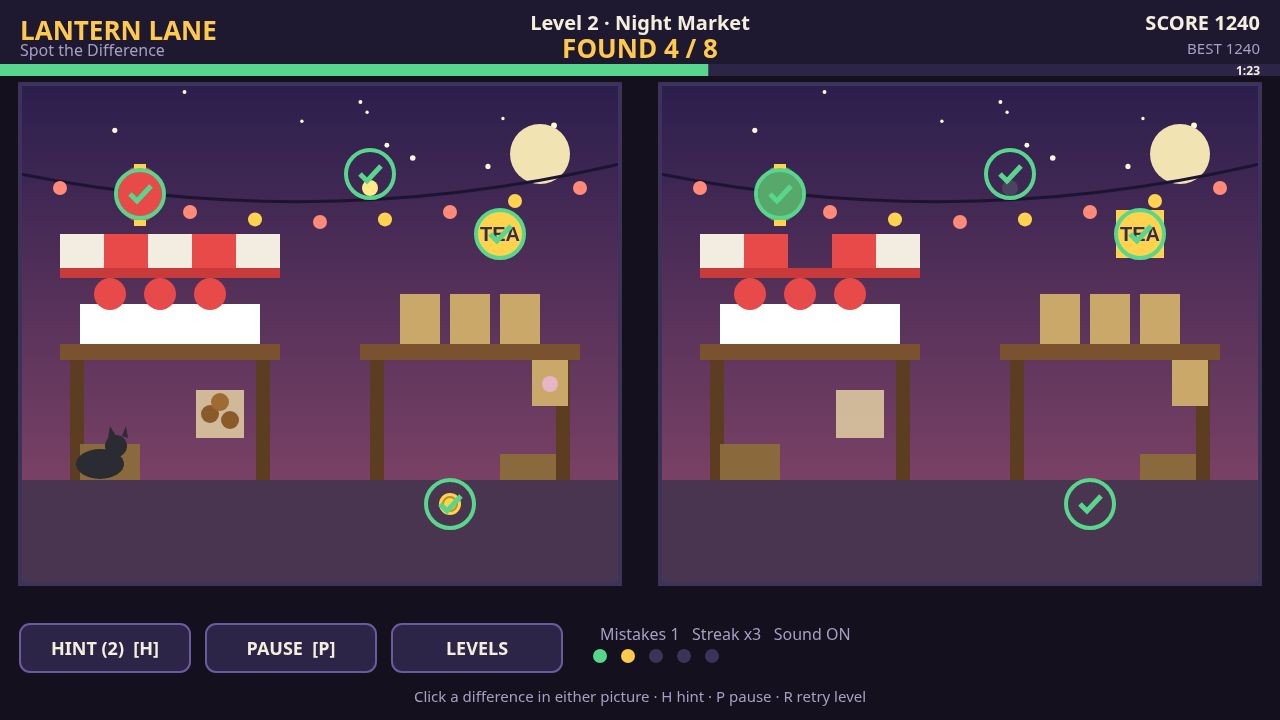
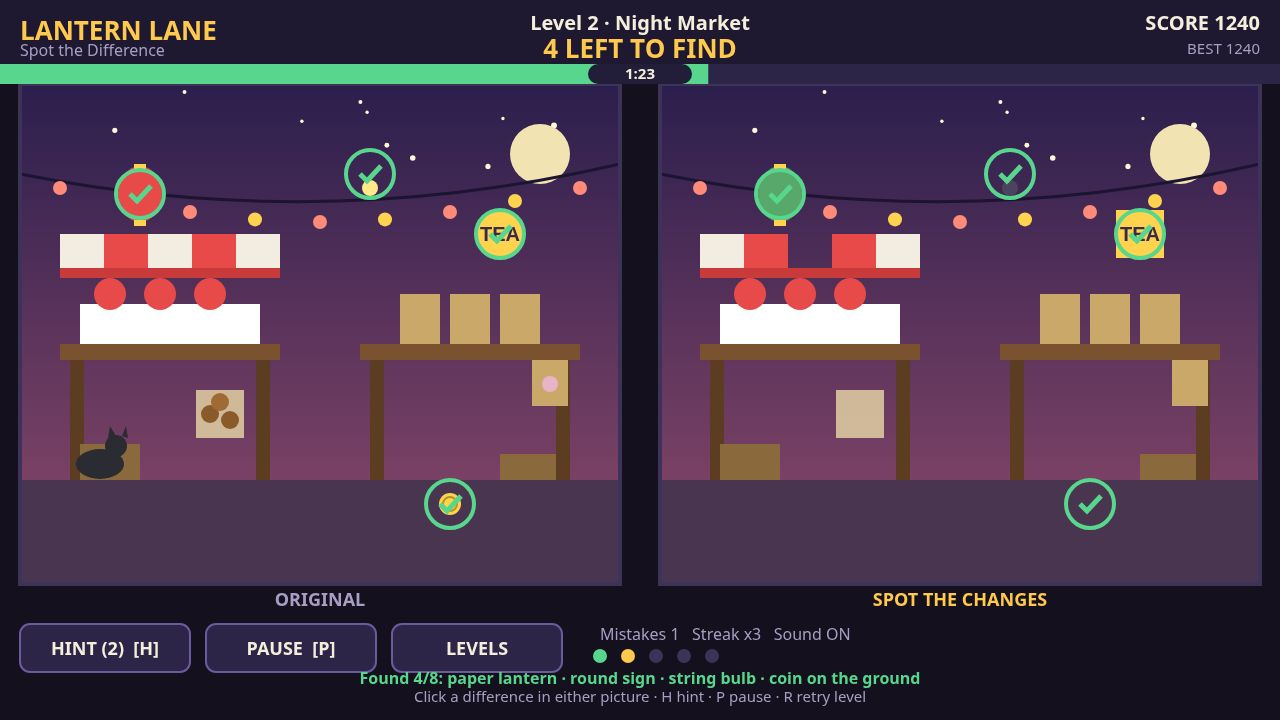
v2: HUD legibility — panel labels, LEFT TO FIND hero counter, timer pill, found-names strip

diff --git a/game/src/render.js b/game/src/render.js
@@ -73,11 +73,15 @@ export function createRenderer(canvas) {
       ctx.strokeStyle = PALETTE.panelBorder;
       ctx.lineWidth = 4;
       ctx.strokeRect(px, PANEL.y, PANEL.width, PANEL.height);
-      ctx.fillStyle = PALETTE.accent;
-      ctx.font = `bold 22px ${FONT}`;
-      ctx.textAlign = 'left';
-      ctx.fillText(side === 0 ? 'A — LEFT' : 'B — RIGHT', px + 12, PANEL.y - 10);
     }
+    // Labels under each picture, like the entries the judge ranks highest:
+    // the left picture is the original, the right one hides the changes.
+    ctx.font = `bold 18px ${FONT}`;
+    ctx.textAlign = 'center';
+    ctx.fillStyle = PALETTE.muted;
+    ctx.fillText('ORIGINAL', PANEL_LEFT_X + PANEL.width / 2, PANEL.y + PANEL.height + 22);
+    ctx.fillStyle = PALETTE.accent;
+    ctx.fillText('SPOT THE CHANGES', PANEL_RIGHT_X + PANEL.width / 2, PANEL.y + PANEL.height + 22);
     // Markers for the differences already found, on both pictures.
     const list = levelDiffs(state.levelIndex);
     for (const i of state.found) {
@@ -144,9 +148,10 @@ export function createRenderer(canvas) {
     ctx.textAlign = 'center';
     ctx.fillText(`Level ${state.levelIndex + 1} · ${level.name}`, 640, 30);
     const total = levelDiffs(state.levelIndex).length;
-    ctx.fillStyle = state.found.length === total ? PALETTE.green : PALETTE.accent;
+    const left = total - state.found.length;
+    ctx.fillStyle = left === 0 ? PALETTE.green : PALETTE.accent;
     ctx.font = `bold 26px ${FONT}`;
-    ctx.fillText(`FOUND ${state.found.length} / ${total}`, 640, 58);
+    ctx.fillText(left === 0 ? 'ALL FOUND!' : `${left} LEFT TO FIND`, 640, 58);
     ctx.fillStyle = PALETTE.text;
     ctx.font = `bold 20px ${FONT}`;
     ctx.textAlign = 'right';
@@ -154,16 +159,19 @@ export function createRenderer(canvas) {
     ctx.fillStyle = PALETTE.muted;
     ctx.font = `15px ${FONT}`;
     ctx.fillText(`BEST ${best}`, 1260, 54);
-    // Clock bar under the header.
+    // Clock bar under the header, with the time in a pill in its middle.
     const frac = Math.max(0, state.timeLeft / LEVEL_SECONDS);
     ctx.fillStyle = '#2c2547';
-    ctx.fillRect(0, 64, FIELD.width, 12);
+    ctx.fillRect(0, 64, FIELD.width, 20);
     ctx.fillStyle = frac > 0.33 ? PALETTE.green : PALETTE.red;
-    ctx.fillRect(0, 64, FIELD.width * frac, 12);
+    ctx.fillRect(0, 64, FIELD.width * frac, 20);
+    ctx.fillStyle = '#221d38';
+    roundRect(588, 64, 104, 20, 10);
+    ctx.fill();
     ctx.fillStyle = PALETTE.text;
-    ctx.font = `bold 12px ${FONT}`;
-    ctx.textAlign = 'right';
-    ctx.fillText(formatTime(state.timeLeft), 1260, 75);
+    ctx.font = `bold 15px ${FONT}`;
+    ctx.textAlign = 'center';
+    ctx.fillText(formatTime(state.timeLeft), 640, 79);
   }
 
   function drawButton(rect, label, enabled) {
@@ -187,11 +195,14 @@ export function createRenderer(canvas) {
     ctx.font = `16px ${FONT}`;
     ctx.textAlign = 'left';
     ctx.fillText(`Mistakes ${state.mistakes}   Streak x${state.streak}   Sound ${muted ? 'OFF' : 'ON'}`, 600, 640);
-    if (state.foundLabel) {
+    // Everything found so far, by name — the strip the top entries all show.
+    if (state.found.length > 0) {
+      const list = levelDiffs(state.levelIndex);
+      const names = state.found.map((i) => list[i].label).join(' · ');
       ctx.fillStyle = PALETTE.green;
-      ctx.font = `bold 18px ${FONT}`;
+      ctx.font = `bold 16px ${FONT}`;
       ctx.textAlign = 'center';
-      ctx.fillText(`Found: ${state.foundLabel}`, 640, 676);
+      ctx.fillText(`Found ${state.found.length}/${list.length}: ${names}`, 640, 684);
     }
     ctx.fillStyle = PALETTE.muted;
     ctx.font = `15px ${FONT}`;
@@ -246,7 +257,8 @@ export function createRenderer(canvas) {
       drawCard(
         'LANTERN LANE',
         [
-          'Find all 8 differences between pictures A and B.',
+          'Find all 8 differences: left is the Original,',
+          'right is Spot the Changes.',
           'Click a difference in either picture to mark it.',
           'Wrong clicks cost 25 points · hints cost 50.',
           'Beat the 2:30 clock on each of the 5 levels.',
